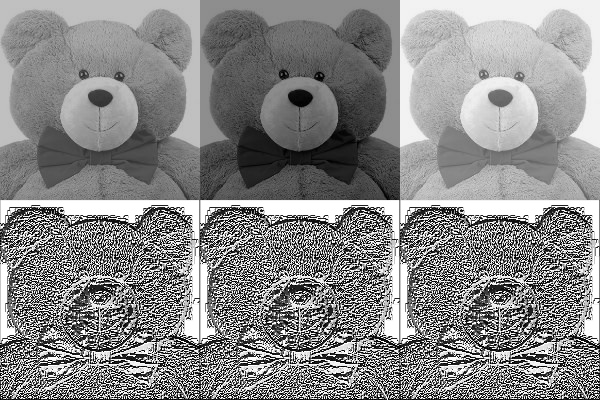
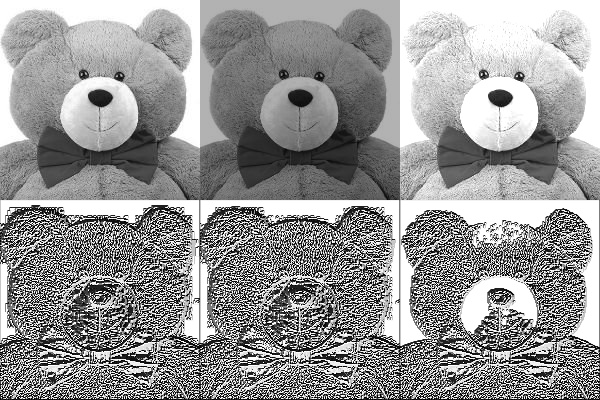
Contrast invariance test

diff --git a/lbp-demo-contrast-invariant.py b/lbp-demo-contrast-invariant.py
@@ -1,0 +1,23 @@
+import cv2
+import numpy as np
+from skimage import feature
+
+img1 = cv2.imread('teddy.jpg', 0)
+lbp1 = feature.local_binary_pattern(img1, 8, 1)
+
+img2 = cv2.addWeighted(img1, .7, img1, 0, 0)
+lbp2 = feature.local_binary_pattern(img2, 8, 1)
+
+img3 = cv2.addWeighted(img1, 1.3, img1, 0, 0)
+lbp3 = feature.local_binary_pattern(img3, 8, 1)
+
+stack = np.hstack((
+    np.vstack((img1, lbp1.astype(np.uint8))),
+    np.vstack((img2, lbp2.astype(np.uint8))),
+    np.vstack((img3, lbp3.astype(np.uint8)))
+))
+
+cv2.imshow('LBP', stack)
+cv2.imwrite('teddy-demo.jpg', stack)
+cv2.waitKey(0)
+cv2.destroyAllWindows()
